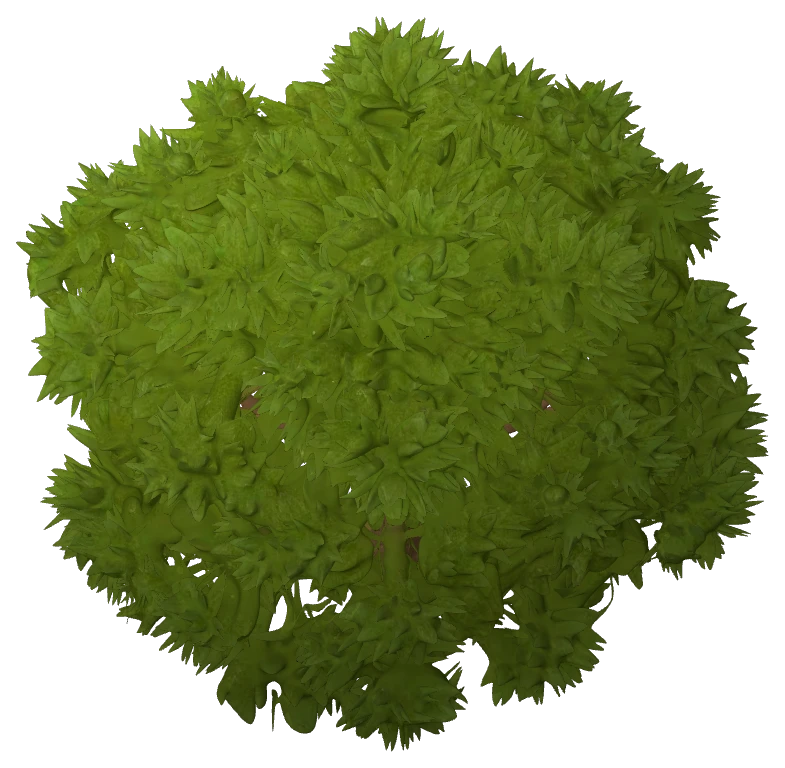
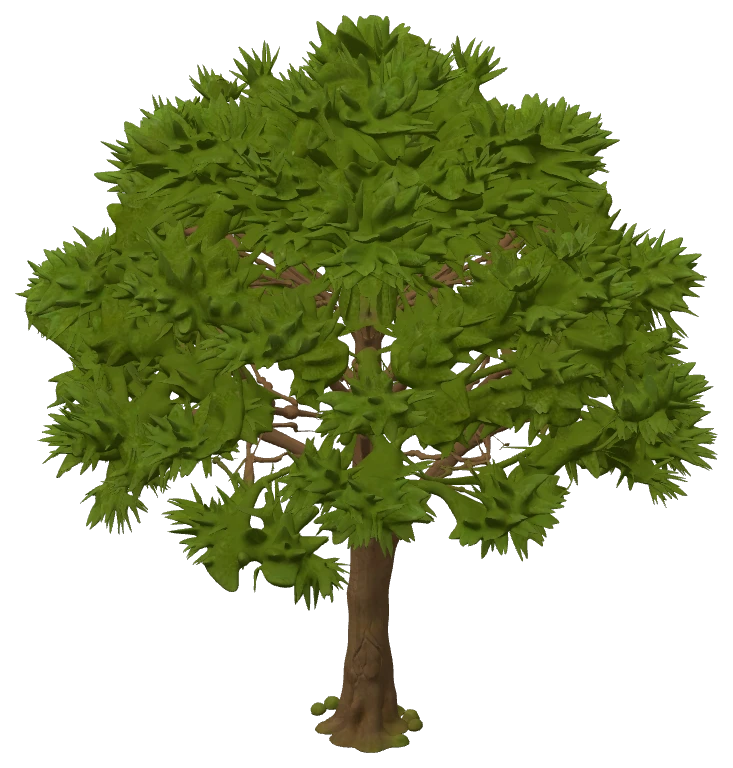
D100: trees with a trunk and height, a peek without the body spin, no shots into the wall at a corner
- the tree picture baked from 62 deg off the vertical (trunk, branches, height), drawn 170 high, lifted along the
  view line so the yard walls behind no longer cut it
- leaning out of a corner he stays back to the wall; the Peek And Aim clips lean and aim (no aim-pose turn)
- from cover a shot needs the first 70 units of the line to the aim free of walls (no rounds into a wall end)

diff --git a/src/render3d/propModels3d.js b/src/render3d/propModels3d.js
@@ -18,7 +18,6 @@ import { CAMERA } from '../config/camera.js';
 const DIR = 'assets/models/props/';
 const TILT = (CAMERA.tilt * Math.PI) / 180;
 const LEAN = Math.PI / 2 - TILT;                  // the sprite quad leans back by this (faces the camera)
-const UP = new THREE.Vector3(0, Math.sin(TILT), -Math.cos(TILT)); // the camera's up on the ground plane's frame
 const BAKE_H = 512;                               // px: the impostor picture's height (cfg.bakeH overrides)
 
 const raw = new Map();     // file → { geometry (height 1, base at y 0), texture }
@@ -73,6 +72,10 @@ export function modelOf(p) {
  */
 export function renderImpostor(renderer, geometry, texture, cfg) {
   const L = cfg.look || {}, turns = cfg.turns ? 4 : 1, H = cfg.bakeH || BAKE_H;
+  // D100 (user: the trees looked like huge bushes): a picture may be taken from lower than the game camera (bakeTilt,
+  // degrees from the vertical) — a tree then shows its trunk and height (the usual top-down game cheat)
+  const tilt = cfg.bakeTilt != null ? (cfg.bakeTilt * Math.PI) / 180 : TILT;
+  const up = new THREE.Vector3(0, Math.sin(tilt), -Math.cos(tilt));
   const scene = new THREE.Scene();
   scene.add(new THREE.HemisphereLight(0xffffff, 0x8a8a80, L.hemi ?? 2.2));
   const sun = new THREE.DirectionalLight(0xffffff, L.sun ?? 1.0);
@@ -95,7 +98,7 @@ export function renderImpostor(renderer, geometry, texture, cfg) {
     const a = -r * (Math.PI / 2) + (cfg.turn || 0), c = Math.cos(a), s = Math.sin(a);
     for (let i = 0; i < pos.count; i += 2) {
       v.fromBufferAttribute(pos, i);
-      const x = v.x * c + v.z * s, z = -v.x * s + v.z * c, u = v.y * UP.y + z * UP.z;
+      const x = v.x * c + v.z * s, z = -v.x * s + v.z * c, u = v.y * up.y + z * up.z;
       if (x < x0) x0 = x; if (x > x1) x1 = x; if (u < y0) y0 = u; if (u > y1) y1 = u;
     }
   }
@@ -103,8 +106,8 @@ export function renderImpostor(renderer, geometry, texture, cfg) {
   x0 -= pad; x1 += pad; y0 -= pad; y1 += pad;
   const W = Math.max(16, Math.round((H * (x1 - x0)) / (y1 - y0)));
   const cam = new THREE.OrthographicCamera(x0, x1, y1, y0, 0.01, 20);
-  cam.position.set(0, Math.cos(TILT) * 8, Math.sin(TILT) * 8);
-  cam.up.copy(UP);
+  cam.position.set(0, Math.cos(tilt) * 8, Math.sin(tilt) * 8);
+  cam.up.copy(up);
   cam.lookAt(0, 0, 0);
   const rt = new THREE.WebGLRenderTarget(W, H, { samples: 4 });
   rt.texture.colorSpace = THREE.SRGBColorSpace; // (written as sRGB — read back as sRGB: no double darkening)
@@ -174,7 +177,9 @@ export function buildPropModels(props, shadows) {
         g.rotateX(-LEAN);
         // D98: the part of the picture below the base point (the crown's near side) would sink under the ground and be
         // cut off flat — the quad is moved along the camera's view line (the picture stays put on screen) above it
-        const low = Math.min(0, fy0 * s) * Math.cos(LEAN), t = -low / Math.cos(TILT) + 0.5;
+        // D100: `lift` — moved further along it (a tall tree's picture leans back over the yard walls behind it and was cut
+        // by them; lifted towards the camera it passes over them, the same on screen)
+        const low = Math.min(0, fy0 * s) * Math.cos(LEAN), t = -low / Math.cos(TILT) + 0.5 + (m.lift || 0);
         g.translate(p.x, (p.elev || 0) + t * Math.cos(TILT), p.y + t * Math.sin(TILT));
         parts.push(g);
       }

diff --git a/src/systems/PlayerController.js b/src/systems/PlayerController.js
@@ -2,6 +2,7 @@
 // never keys or DOM — keyboard and touch drive it the same way.
 import { PLAYER, COVER, dodgeTravel, dodgeOf } from '../data/player.js';
 import { WORLD_WIDTH, WORLD_HEIGHT } from '../config/constants.js';
+import { BLOCK } from './Collision.js';
 
 const move = { x: 0, y: 0 }; // reused
 const aim = { x: 0, y: 0 };
@@ -144,9 +145,10 @@ export class PlayerController {
     if (!p.cover || p.cover.kind !== 'high' || p.dodging || !p.alive) { p.peek = null; return wantFire; }
     // D99 (user): aimed away from the wall (in front of him) he simply fires from where he stands — leaning out of the
     // corner is only for an aim behind the wall; aimed into the wall away from a corner the trigger does nothing (no hint)
+    // D100 (user: by a corner he fired into the wall's end): only when the line to the aim is clear of the wall close by
     if (wantFire && !p.peek && p.hasAim) {
       const dx = p.aimX - p.x, dy = p.aimY - p.y, L = Math.hypot(dx, dy) || 1;
-      if ((dx * p.cover.nx + dy * p.cover.ny) / L > C.frontDot) return true;
+      if ((dx * p.cover.nx + dy * p.cover.ny) / L > C.frontDot && this._clearShot(p)) return true;
     }
     if (wantFire) {
       if (!p.peek) {
@@ -167,7 +169,18 @@ export class PlayerController {
     if (!out && pk.k <= 0) { p.x = pk.baseX; p.y = pk.baseY; p.peek = null; return false; }
     // D97 (user: the first shot after leaning out made a sound and took a round but no bullet flew — half out, the
     // barrel was still behind the corner and the wall took the shot): it fires only once he is fully out
-    return wantFire && pk.k >= 1;
+    // D100: fully out, and still no wall right in front of the barrel (the aim past the corner's own end) — else no
+    // shot (no round wasted into the wall)
+    return wantFire && pk.k >= 1 && this._clearShot(p);
+  }
+
+  /** D100: is the line from him to the aim free of walls / tall cover for the first COVER.clearShot units? */
+  _clearShot(p) {
+    if (!this.world || !p.hasAim) return true;
+    const dx = p.aimX - p.x, dy = p.aimY - p.y, L = Math.hypot(dx, dy);
+    if (L < 1) return false;
+    const n = Math.min(L, COVER.clearShot), t = this.world.segmentHit(p.x, p.y, p.x + (dx / L) * n, p.y + (dy / L) * n, 0, null, BLOCK.BULLET);
+    return t === Infinity;
   }
 
   /** In cover: steps up to the object first, then moves only along it (kneeling / sneaking sideways). */

diff --git a/src/data/propModels.js b/src/data/propModels.js
@@ -73,7 +73,9 @@ export const PROP_MODELS = {
   // D99 (user): the user's second, detailed tree (60 MB, 2 M triangles) — its picture baked OFFLINE from the model
   // (tools/bake-impostor.html: 785 × 768 webp, 79 KB) — the game never loads the model
   tree: { view: 'deciduous_tree', top: 1, atlas: 'training', drawW: 120, drawD: 120, sprite: { lean: 1 },
-    model: { file: 'tree_big', height: 150, baked: { file: 'tree_big.webp', frame: [-0.4816, 0.4816, -0.2466, 0.6959] } } },
+    // D100 (user: the trees looked like huge bushes): baked from 62° off the vertical (tools/bake-impostor.html tilt=62)
+    // — the trunk and the height show; drawn 170 high
+    model: { file: 'tree_big', height: 170, lift: 75, baked: { file: 'tree_big.webp', frame: [-0.4816, 0.4816, -0.0526, 0.9566] } } },
   boulder: { view: 'boulder', top: 1, atlas: 'training' },
   bush: { view: 'leafy_bush', top: 0.9, atlas: 'training', sprite: { lean: 1 } },
   grass_tuft: { view: 'grass_tuft', top: 0.8, atlas: 'training', sprite: { lean: 1 } },

diff --git a/src/core/MissionRun.js b/src/core/MissionRun.js
@@ -276,6 +276,9 @@ export class MissionRun {
     const cover = p.cover && !firing ? p.cover : null; // D83: in cover he keeps facing it while moving along it
     p.aimPose = false;
     if (p.dodging) p.bodyAngle = Math.atan2(p.dodgeDirY, p.dodgeDirX);
+    // D100 (user: the body spun around before / in the lean): leaning out of the corner he stays back to the wall — the
+    // user's Peek And Aim Left / Right clips do the lean and the aim themselves (no aim pose turning him to the aim)
+    else if (p.peek && p.cover) p.bodyAngle = Math.atan2(p.cover.ny, p.cover.nx);
     else if (cover) p.bodyAngle = Math.atan2(cover.ny, cover.nx); // D90 (user): back to it, low cover too (turns to fire)
     else if (firing || (mouse && (!moving || FACING.alwaysAimMouse))) {
       const d = Math.hypot(p.aimX - p.x, p.aimY - p.y);

diff --git a/src/data/player.js b/src/data/player.js
@@ -69,6 +69,7 @@ export const COVER = {
   edgeStop: 13,
   edgeProbe: 16,            // units along the cover: no cover there (or only its corner) → he stands at an edge
   peekOut: 24,              // units he leans out past the edge (his body clears the corner — and can be hit)
+  clearShot: 70,            // D100: in high cover he fires only if this much of the line to the aim is free of walls
   frontDot: 0.15,           // D99: aim this far in front of him (cos to the wall's normal) — he fires without leaning out
   peekIn: 0.34,             // s to lean out / back (D97, user: 0.16 was a jerk)
   peekHold: 0.45,           // s he stays out after the last shot

diff --git a/src/config/constants.js b/src/config/constants.js
@@ -12,7 +12,7 @@ export const DEBUG_MODELS = false; // D93 (user): the viewer is out of the main 
  */
 export const CHEATS = true;
 
-export const BUILD_VERSION = '0.22.0-killlist-training';
+export const BUILD_VERSION = '0.22.1-killlist-training';
 
 /** Prefix for every localStorage key of the game (H5 §9). KILL LIST (D78): its own prefix, a new profile schema. */
 export const STORAGE_PREFIX = 'kl.';
